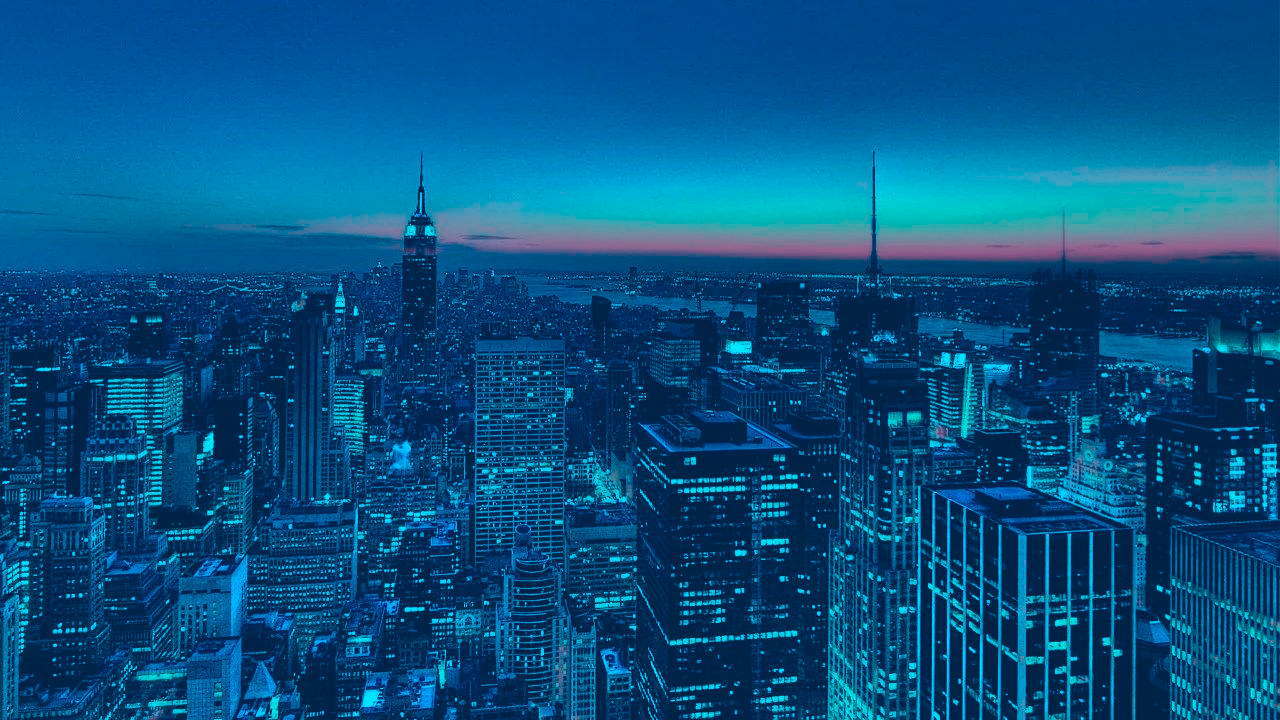
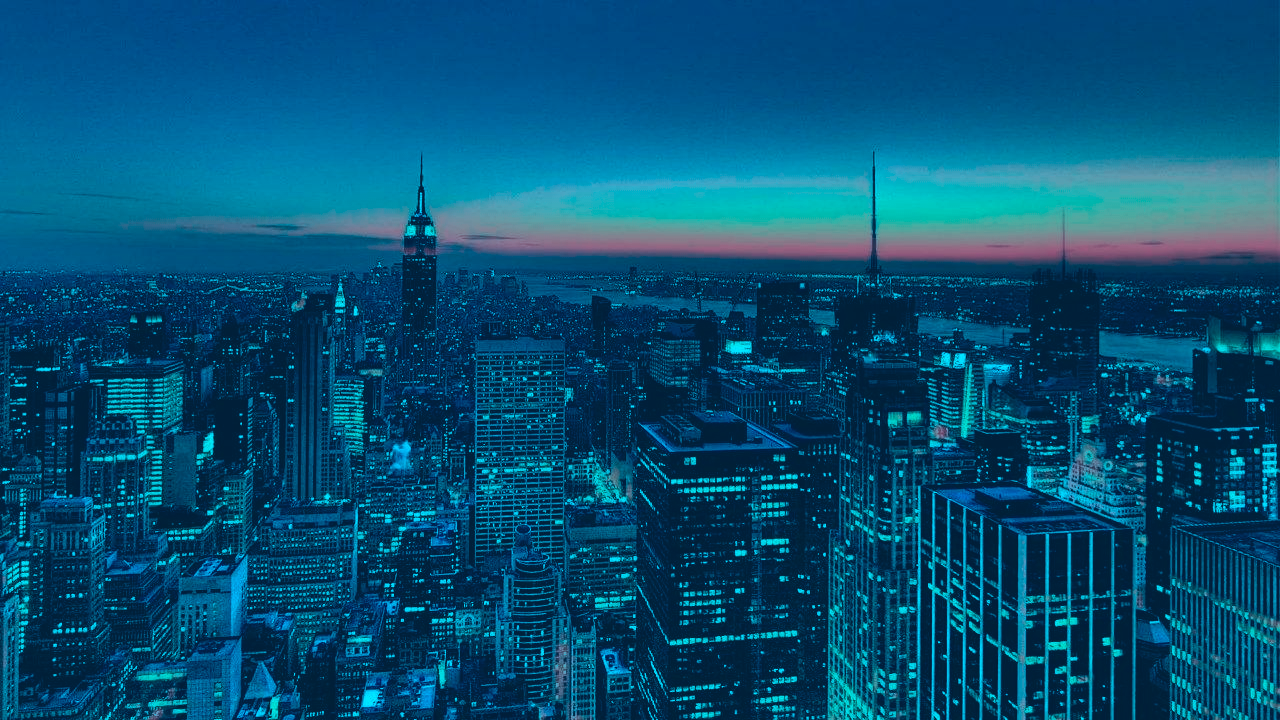
Update

diff --git a/colortransfer/colortransfer.py b/colortransfer/colortransfer.py
@@ -48,14 +48,68 @@ def color_transfer_max(sc, dc):
 	return dst
 
 def color_transfer_nonlinear(sc,dc):
-	sc = cv2.cvtColor(sc, cv2.COLOR_BGR2LAB)
-	dc = cv2.cvtColor(dc, cv2.COLOR_BGR2LAB)
+	# sc = cv2.cvtColor(sc, cv2.COLOR_BGR2LAB)
+	# dc = cv2.cvtColor(dc, cv2.COLOR_BGR2LAB)
 	s_min,s_max = np.array([np.min(sc[:,:,0]),np.min(sc[:,:,1]),np.min(sc[:,:,2])]), np.array([np.max(sc[:,:,0]),np.max(sc[:,:,1]),np.max(sc[:,:,2])])
 	t_min,t_max = np.array([np.min(dc[:,:,0]),np.min(dc[:,:,1]),np.min(dc[:,:,2])]), np.array([np.max(dc[:,:,0]),np.max(dc[:,:,1]),np.max(dc[:,:,2])])
 	s_mean, s_std = get_mean_and_std(sc)
-	pass 
+	t_mean, t_std = get_mean_and_std(dc)
+	lg = np.mat([[s_min[0]**2,s_min[0],1],
+				  [s_max[0]**2,s_max[0],1],
+				  [s_mean[0]**2,s_mean[0],1]])
+	lga = np.mat([[t_min[0],s_min[0],1],
+				  [t_max[0],s_max[0],1],
+				  [t_mean[0],s_mean[0],1]])
+	lgb = np.mat([[s_min[0]**2,t_min[0],1],
+				  [s_max[0]**2,t_max[0],1],
+				  [s_mean[0]**2,t_mean[0],1]])
+	lgc = np.mat([[s_min[0]**2,s_min[0],t_min[0]],
+				  [s_max[0]**2,s_max[0],t_max[0]],
+				  [s_mean[0]**2,s_mean[0],t_mean[0]]])
+	aL = np.linalg.det(lga)/np.linalg.det(lg)
+	bL = np.linalg.det(lgb)/np.linalg.det(lg)
+	cL = np.linalg.det(lgc)/np.linalg.det(lg)
+	lg = np.mat([[s_min[1]**2,s_min[1],1],
+				  [s_max[1]**2,s_max[1],1],
+				  [s_mean[1]**2,s_mean[1],1]])
+	lga = np.mat([[t_min[1],s_min[1],1],
+				  [t_max[1],s_max[1],1],
+				  [t_mean[1],s_mean[1],1]])
+	lgb = np.mat([[s_min[1]**2,t_min[1],1],
+				  [s_max[1]**2,t_max[1],1],
+				  [s_mean[1]**2,t_mean[1],1]])
+	lgc = np.mat([[s_min[1]**2,s_min[1],t_min[1]],
+				  [s_max[1]**2,s_max[1],t_max[1]],
+				  [s_mean[1]**2,s_mean[1],t_mean[1]]])
+	aA = np.linalg.det(lga)/np.linalg.det(lg)
+	bA = np.linalg.det(lgb)/np.linalg.det(lg)
+	cA = np.linalg.det(lgc)/np.linalg.det(lg)
+	lg = np.mat([[s_min[2]**2,s_min[2],1],
+				  [s_max[2]**2,s_max[2],1],
+				  [s_mean[2]**2,s_mean[2],1]])
+	lga = np.mat([[t_min[2],s_min[2],1],
+				  [t_max[2],s_max[2],1],
+				  [t_mean[2],s_mean[2],1]])
+	lgb = np.mat([[s_min[2]**2,t_min[2],1],
+				  [s_max[2]**2,t_max[2],1],
+				  [s_mean[2]**2,t_mean[2],1]])
+	lgc = np.mat([[s_min[2]**2,s_min[2],t_min[2]],
+				  [s_max[2]**2,s_max[2],t_max[2]],
+				  [s_mean[2]**2,s_mean[2],t_mean[2]]])
+	aB = np.linalg.det(lga)/np.linalg.det(lg)
+	bB = np.linalg.det(lgb)/np.linalg.det(lg)
+	cB = np.linalg.det(lgc)/np.linalg.det(lg)
+	a = np.array([aL,aA,aB])
+	b = np.array([bL,bA,bB])
+	c = np.array([cL,cA,cB])
+	img_n = a*sc**2 + b*sc + c
+	np.putmask(img_n, img_n > 255, 255)
+	np.putmask(img_n, img_n < 0, 0)
+	# dst = cv2.cvtColor(cv2.convertScaleAbs(img_n), cv2.COLOR_LAB2BGR)
+	return dst
+	
 
-def maxmin(sc,dc):
+def color_transfer_maxmin(sc,dc):
 	sc = cv2.cvtColor(sc, cv2.COLOR_BGR2LAB)
 	dc = cv2.cvtColor(dc, cv2.COLOR_BGR2LAB)
 	s_min,s_max = np.array([np.min(sc[:,:,0]),np.min(sc[:,:,1]),np.min(sc[:,:,2])]), np.array([np.max(sc[:,:,0]),np.max(sc[:,:,1]),np.max(sc[:,:,2])])
@@ -79,8 +133,8 @@ dst = color_transfer_min(sc, dc)
 cv2.imwrite('r_min.png',dst)
 dst = color_transfer_max(sc, dc)
 cv2.imwrite('r_max.png',dst)
-dst = maxmin(sc, dc)
-cv2.imwrite('r_m.png',dst)
+dst = color_transfer_nonlinear(sc, dc)
+cv2.imwrite('r_n.png',dst)
 # dst = dst / 255
 # m = np.mean(dst)
 # dst = (dst - m) * st + m
